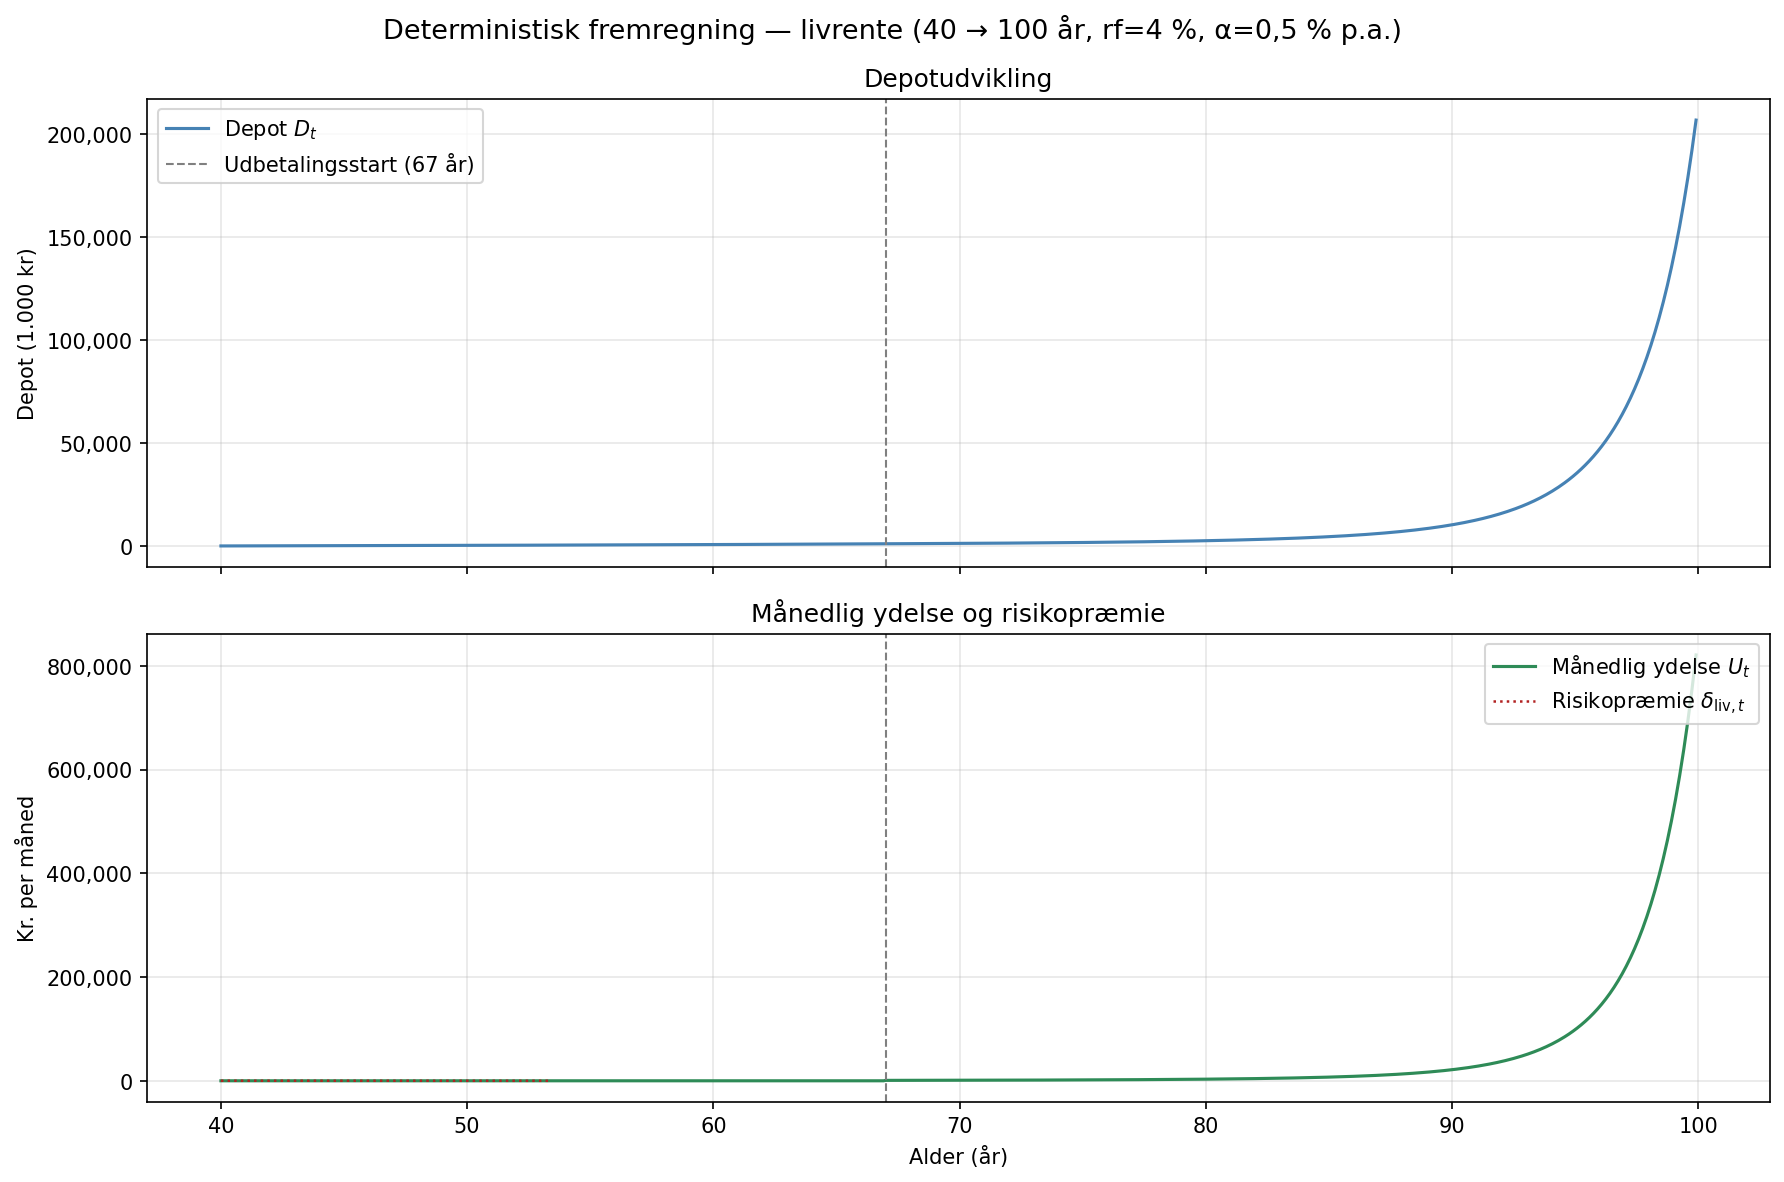
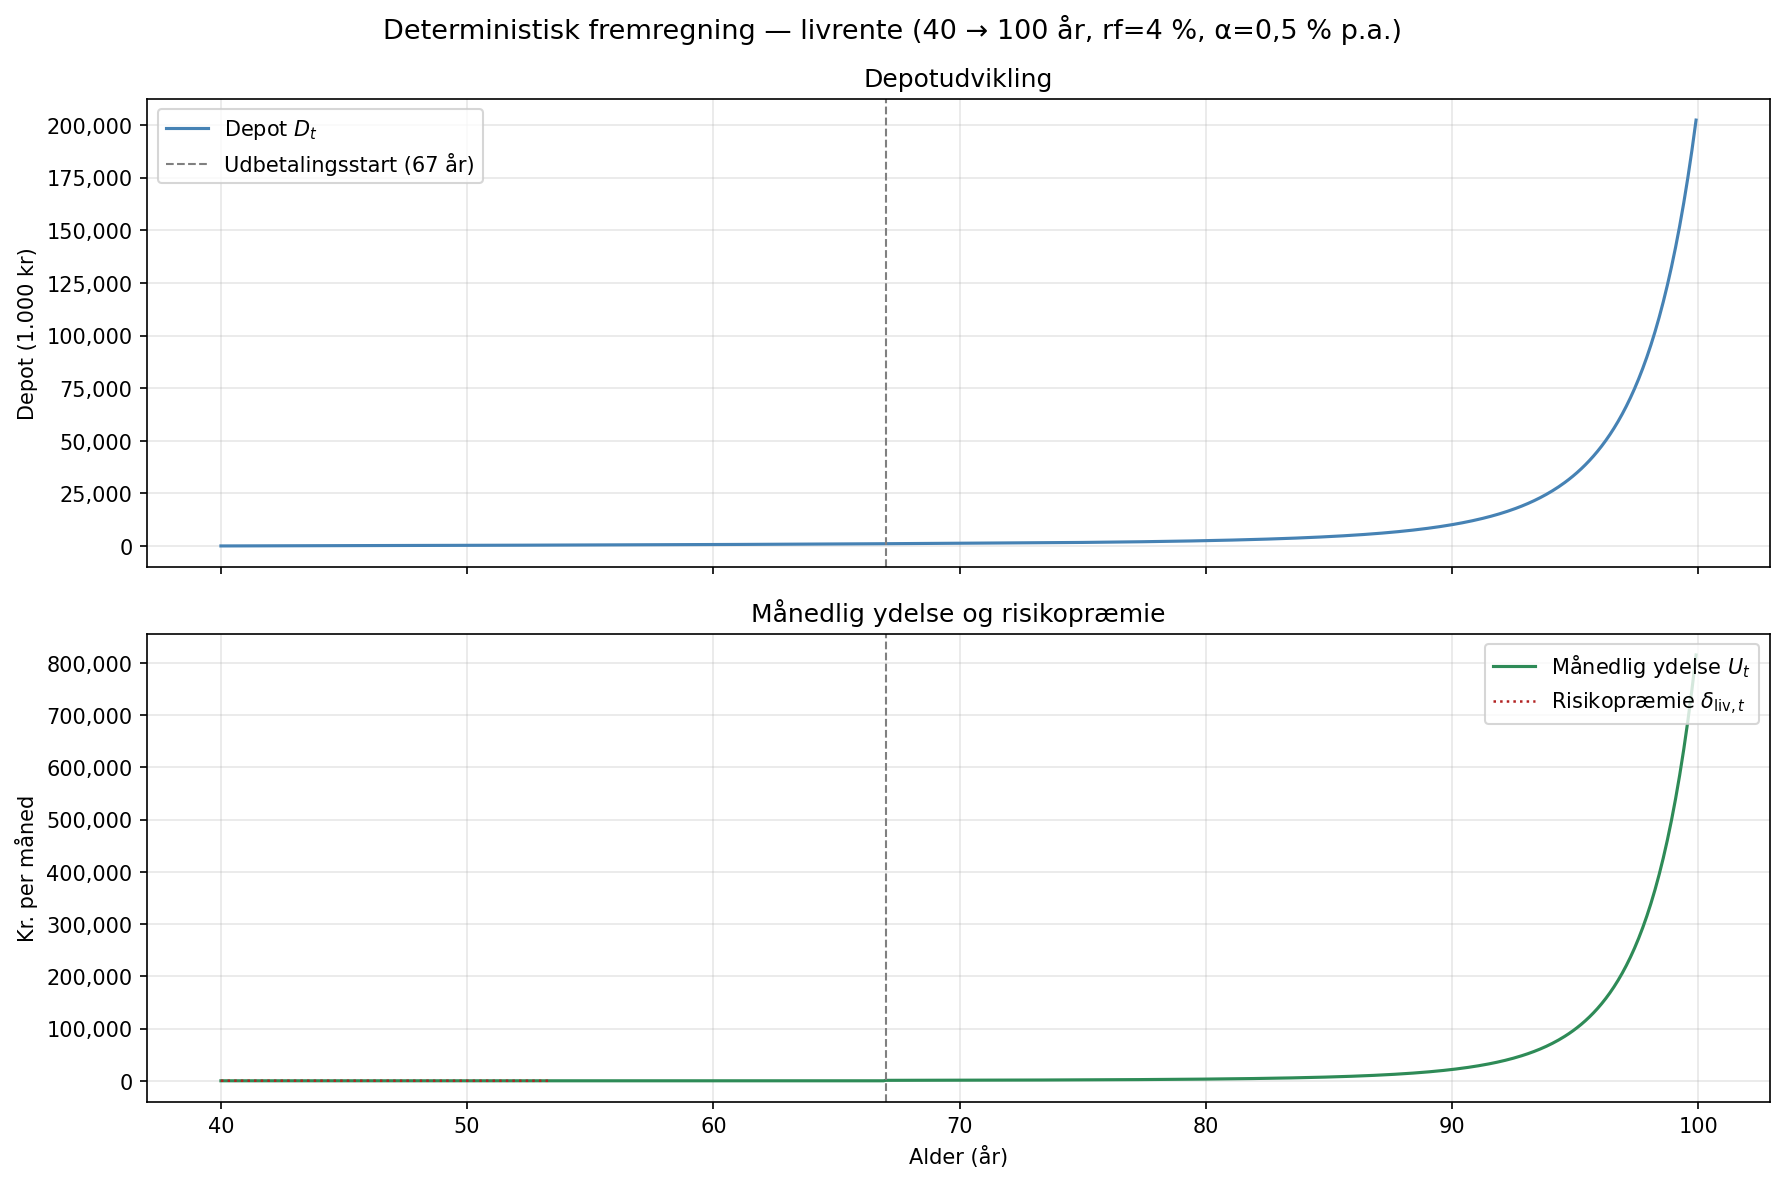
Hæv annuitetsrente med 1 procentpoint i livrente-ydelse
Bruger marked.rf + 0.01 som diskonteringsrente i annuity_pv()
for livrente-ydelsen, så ydelsen bliver højere end ved rf alene.

https://claude.ai/code/session_01DyELqxpeCFUNyJaZ6VpVP4

diff --git a/pension/projection.py b/pension/projection.py
@@ -127,7 +127,7 @@ def projicér(
         if not udbet:
             ydelse = 0.0
         elif police.produkt == ProductType.LIVRENTE:
-            livrente_pv = biometri.annuity_pv(alder, marked.rf)
+            livrente_pv = biometri.annuity_pv(alder, marked.rf + 0.01)
             ydelse = depot / (livrente_pv * 12.0) if livrente_pv > 0.0 else 0.0
         else:
             ydelse = police.maanedlig_ydelse
